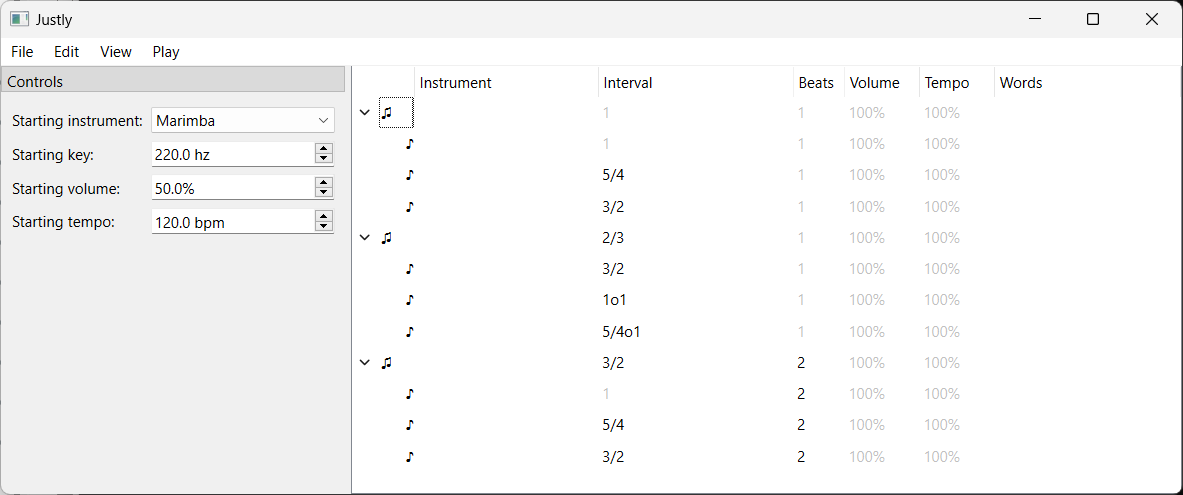
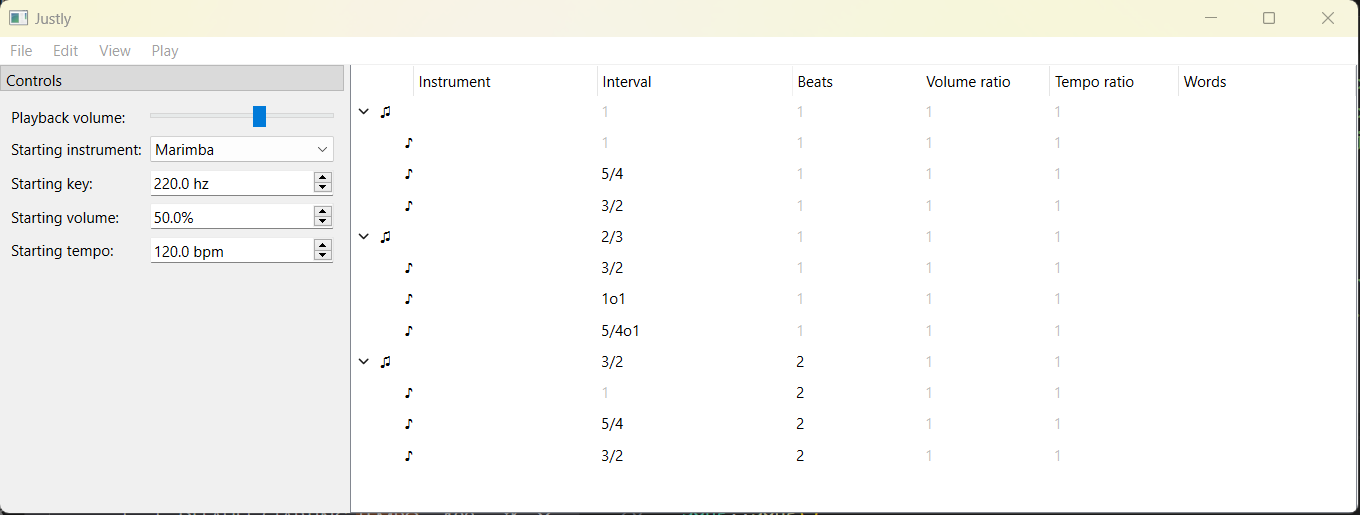
readme

diff --git a/src/song/Song.cpp b/src/song/Song.cpp
@@ -14,7 +14,7 @@
 
 const auto DEFAULT_STARTING_KEY = 220;
 const auto DEFAULT_STARTING_VOLUME = 50;
-const auto DEFAULT_STARTING_TEMPO = 200;
+const auto DEFAULT_STARTING_TEMPO = 100;
 const auto DEFAULT_STARTING_INSTRUMENT = "Marimba";
 
 Song::Song()

diff --git a/src/song/private_constants.hpp b/src/song/private_constants.hpp
@@ -5,5 +5,5 @@ const auto MAX_STARTING_KEY = 440;
 
 const auto MAX_STARTING_VOLUME = 100;
 
-const auto MIN_STARTING_TEMPO = 100;
-const auto MAX_STARTING_TEMPO = 800;
+const auto MIN_STARTING_TEMPO = 25;
+const auto MAX_STARTING_TEMPO = 200;

diff --git a/README.md b/README.md
@@ -74,9 +74,9 @@ The interval, volume ratio, tempo ratio, and instrument changes in chords are cu
 
 #### Tempo example
 
-So, for example, if you set the tempo ratio for a chord to `200%`, you will double the tempo of that chord and all future chords.
-The interval, volume ratio, tempo ratio, and instrument in a note are in reference to the chord, but only affect the note itself.
-So for example, if you set the tempo ratio for a note to `200%`, you will double the tempo of that note only (that is, you will make the note stacatto).
+So, for example, if you set the tempo ratio for a chord to `2`, you will double the tempo of that chord and all future chords.
+The interval, volume ratio, tempo ratio, and instrument of a note are in reference to the chord, but only affect the note itself.
+So for example, if you set the tempo ratio for a note to `2`, you will double the tempo of that note only (that is, you will make the note stacatto).
 
 #### Instrument example
 
@@ -88,14 +88,12 @@ If you do not specify the instrument of a note, you will use the chord instrumen
 
 The duration of a chord is the number of beats until the next chord starts.
 Once the chord starts, each note in the chord will play for its number of beats.
-Beats are indivisible, so you will probably need to subdivide the original beats of your song.
-For example, if your song contains 16th notes and no shorter, each Justly beat should represent a 16th note.
 
 ## Interface
 
 ### Controls
 
-You can edit the starting key, starting volume, starting tempo, and starting instrument using the controls at the top.
+You can edit the starting key, starting volume, starting tempo, and starting instrument using the controls at the top. There is also a playback volume slider, which you can use to change the playback volume, but not the volume level of the song.
 
 ### Chords editor
 
@@ -171,15 +169,13 @@ Here is the sheet music for reference:
 
 The whole figure is in the key of 262 Hz (≈ middle C). 
 
-For this song, 1 beat in Justly represents 1 sixteenth note.
-
-All of the "chords" have a ratio of 1 because the key never changes.
+All of the "chords" have a ratio of 1/4 because each new notes play every sixteenth note.
 
 Each note starts at a different time.
 Because a chord represents a set of notes that begin playing simultaneously, in this song, each note has its own "chord". 
 
-Each "chord" lasts for 1 beat.
-The first note, however, plays for 8 beats.
-1 beat into the first note, the second note starts, and plays for 7 beats.
-The rest of the notes play for 1 beat.
+Each "chord" lasts for 1/4 of a beat.
+The first note, however, plays for 2 beats.
+1/4 of a  beat into the first note, the second note starts, and plays for 7/4 beats.
+The rest of the notes play for 1/4 of a beat.
 At the end of all 8 "chords", the first two notes stop playing.
